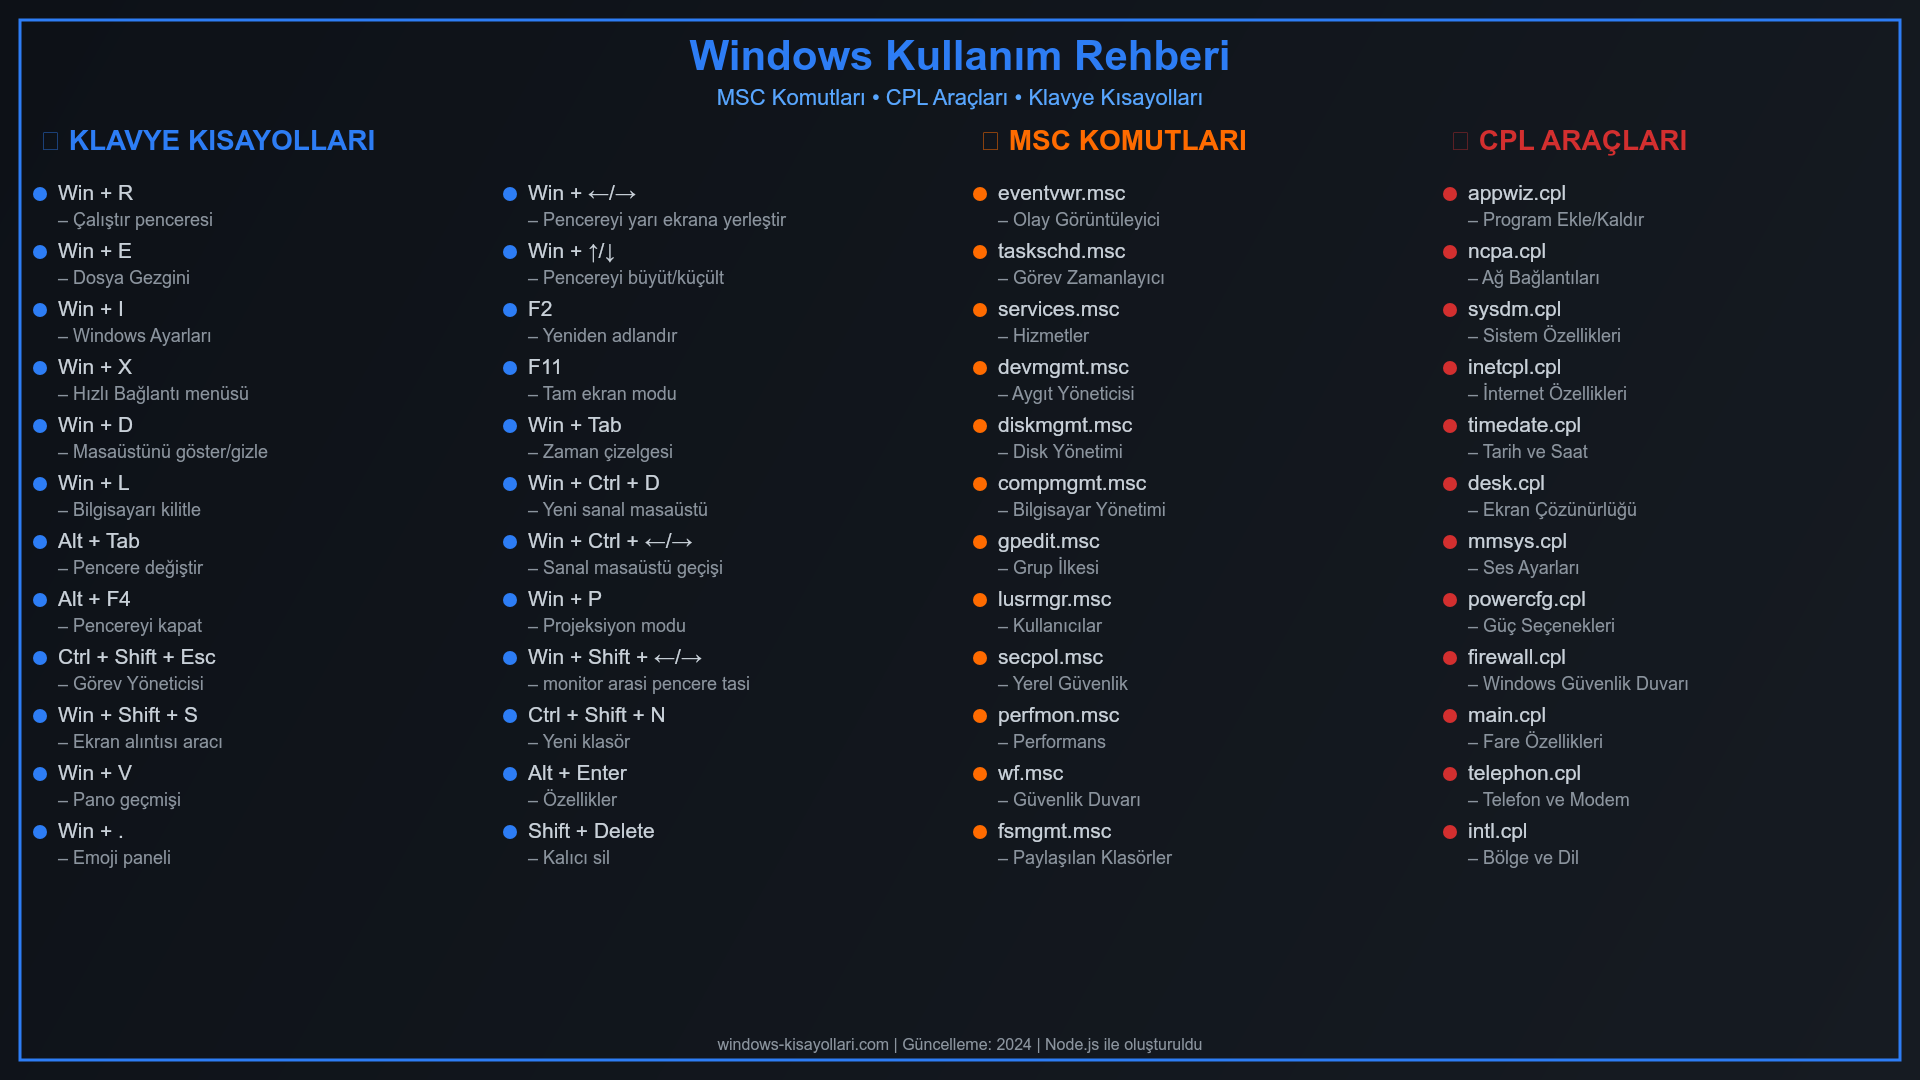
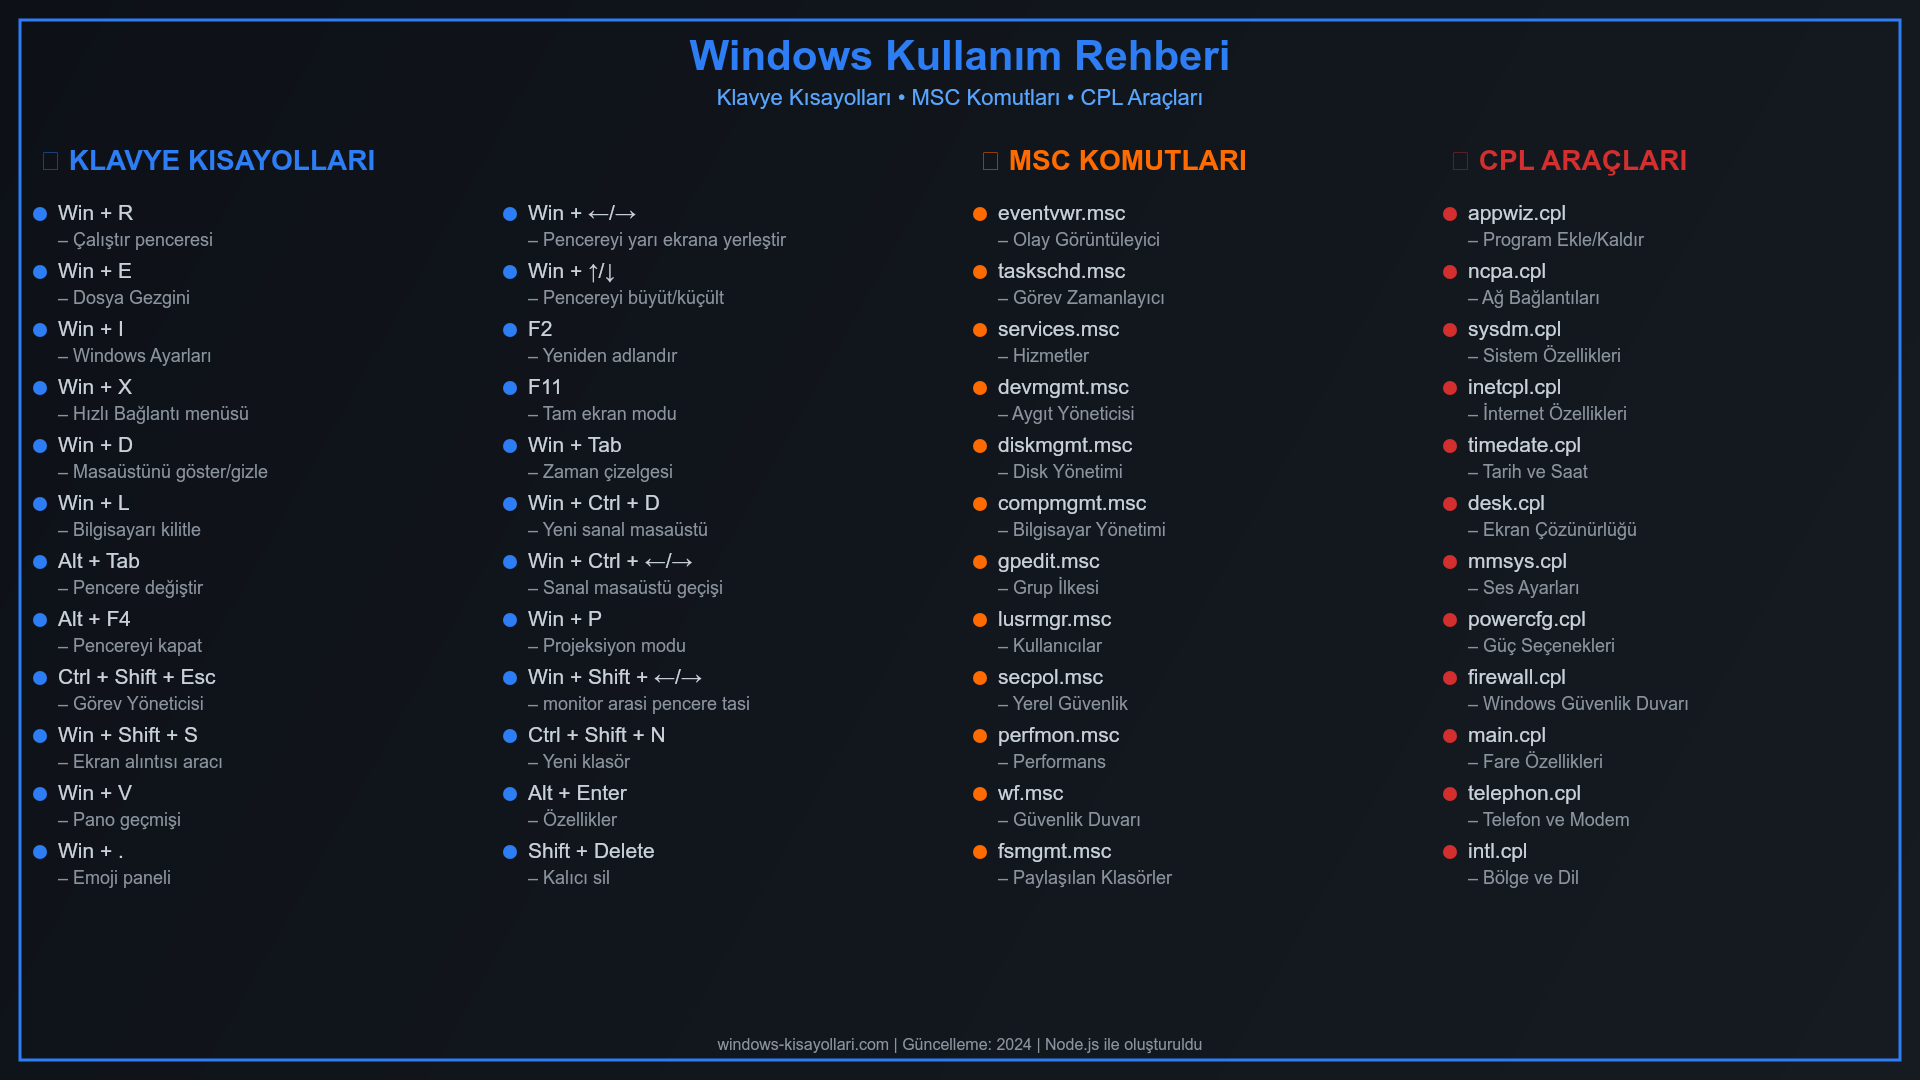
added more space between the header (meta) and the sections in the widescreen Full HD wallpaper

diff --git a/script.js b/script.js
@@ -225,7 +225,7 @@ async function createWidescreenWallpaper(data) {
   const col2X = margin + colWidth + margin;
   const col3X = margin + (colWidth + margin) * 2;
   const col4X = margin + (colWidth + margin) * 3;
-  const startY = 150;
+  const startY = 170;
   
   // Her sütun için ayrı fonksiyon
   function drawSection(section, x, y, maxItems = null) {
